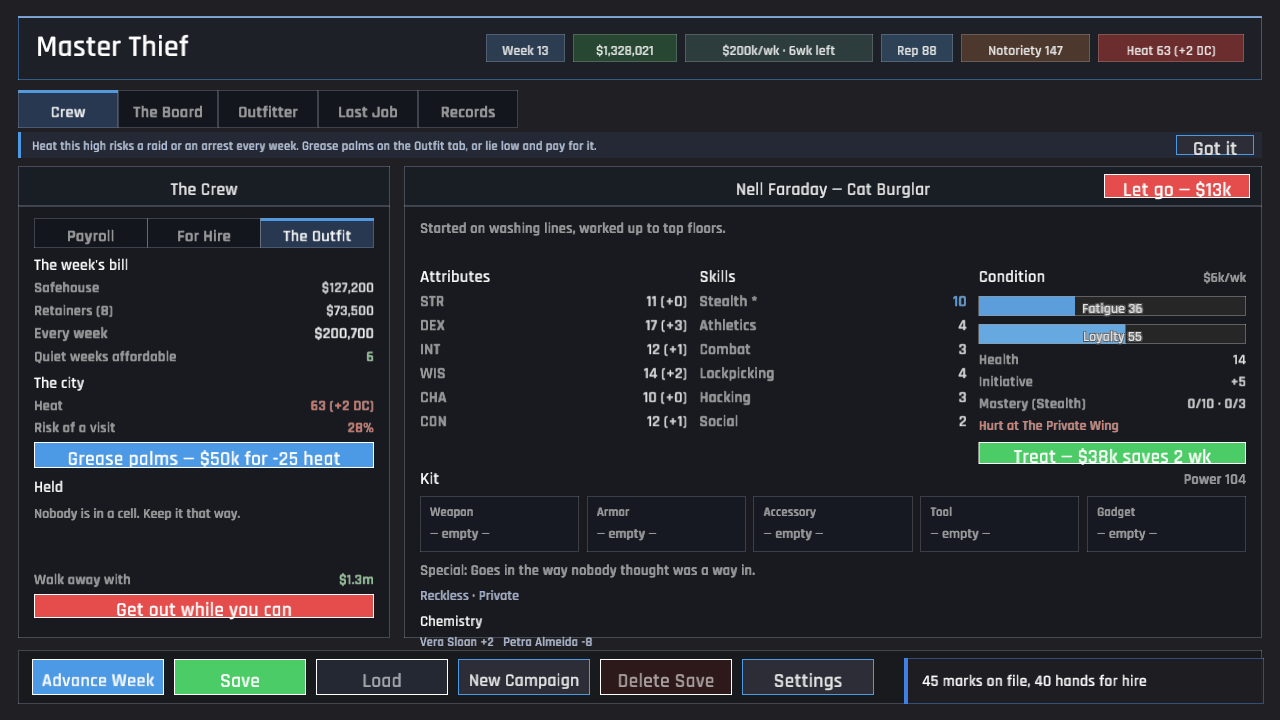
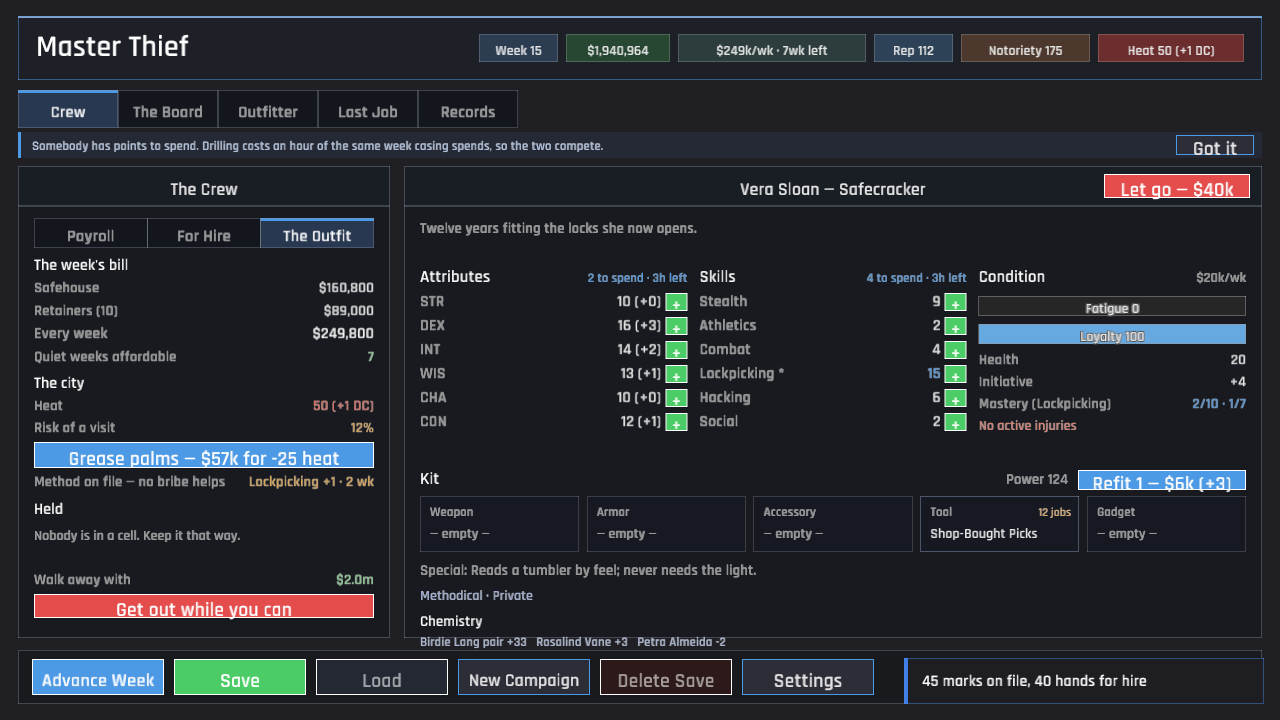
The outfit's books had half the city's file in them (the method goes on the ledger)
Continuing the sweep the last two commits started — the risk in this project has
moved from "not enough decisions" to "decisions the game does not tell you
about", and the Outfit tab is where a player goes to find out what the city has
on them. It listed heat, the odds of a knock, and the price of making both go
away. It said nothing at all about the trade file, which is the other half of
what the city knows and the one part no money touches.

It now carries a "Method on file — no bribe helps" line naming the watched
trade, what it costs, and how many quiet weeks take a point off it. Deliberately
placed directly under the Grease palms button: that button buys the heat number
down and does nothing to this one, and the two sitting together is the clearest
way to say so.

Three stale strings went with it, the same rot the hints had:

- "The crew has done all the looking it can this week" — they are hours now, and
  scouting is not the only thing that spends them.
- "Nobody on the payroll is fit to work" — fitness is injuries only since
  exhaustion stopped being a wall, so it now says too hurt.
- an ASCII hyphen where every other line in the game uses an em dash.

The outfit capture scene moves from twelve weeks to fourteen. At twelve the
method file is real but sits one point under the first band, so the row this
commit adds photographed as "nothing yet" — verified by measuring the campaign
rather than by nudging the scene, which would have made the screenshot a
[…]

diff --git a/src/ui/outfit.rs b/src/ui/outfit.rs
@@ -58,13 +58,13 @@ pub fn draw(ctx: &UiContext<'_>, content: Rect, actions: &mut Vec<UiAction>) {
     );
 
     let heat_y = content.y + 118.0;
-    draw_heat(Rect::new(content.x, heat_y, content.w, 96.0), ctx, actions);
+    draw_heat(Rect::new(content.x, heat_y, content.w, 118.0), ctx, actions);
     draw_custody(
         Rect::new(
             content.x,
-            heat_y + 104.0,
+            heat_y + 126.0,
             content.w,
-            content.bottom() - heat_y - 164.0,
+            content.bottom() - heat_y - 186.0,
         ),
         ctx,
         actions,
@@ -124,6 +124,33 @@ fn draw_heat(rect: Rect, ctx: &UiContext<'_>, actions: &mut Vec<UiAction>) {
     ) {
         actions.push(UiAction::GreasePalms);
     }
+
+    // Under the bribe button on purpose. The city keeps two files on an outfit —
+    // how much attention it has drawn, and what the attention is about — and
+    // this is the half no amount of money touches (GDD 5.4). A player looking
+    // at the outfit's books for what the city has on them should find both.
+    let scrutiny = &ctx.data.config.scrutiny;
+    let watched = session.scrutiny.watched(scrutiny);
+    let (label, value, tone) = match watched.first() {
+        Some((trade, penalty)) => (
+            "Method on file — no bribe helps",
+            format!(
+                "{} +{} · {} wk",
+                trade.label(),
+                penalty,
+                scrutiny.weeks_to_relief(session.scrutiny.get(*trade))
+            ),
+            CAUTION,
+        ),
+        None => ("Method on file", "nothing yet".to_owned(), CALM),
+    };
+    stat_row(
+        Rect::new(rect.x, rect.y + 98.0, rect.w, 20.0),
+        label,
+        &value,
+        15.0,
+        tone,
+    );
 }
 
 /// The last decision the campaign asks for. Shown with what walking away is

diff --git a/src/heist_actions/jobs.rs b/src/heist_actions/jobs.rs
@@ -43,7 +43,8 @@ pub(super) fn case_target(
         return;
     }
     if left == 0 {
-        notifications.warning("The crew has done all the looking it can this week");
+        notifications
+            .warning("The crew has no hours left this week — scouting and training share them");
         return;
     }
 
@@ -101,7 +102,7 @@ pub(super) fn open_plan(
         return;
     }
     if session.available_crew(&data.config.condition).count() == 0 {
-        notifications.warning("Nobody on the payroll is fit to work");
+        notifications.warning("Everybody on the payroll is too hurt to work");
         return;
     }
 
@@ -140,7 +141,7 @@ pub(super) fn auto_fill_plan(
     };
 
     selection.draft = Some(PlanDraft::from_auto(session, data, target));
-    notifications.info("The crew picked their own doors - argue with it");
+    notifications.info("The crew picked their own doors — argue with it");
 }
 
 /// Commit a hand-made plan. Same engine, same dice, better assignments than
@@ -233,7 +234,7 @@ pub(super) fn delegate_job(
         return None;
     }
     if session.available_crew(&data.config.condition).count() == 0 {
-        notifications.warning("Nobody on the payroll is fit to work");
+        notifications.warning("Everybody on the payroll is too hurt to work");
         return None;
     }
 

diff --git a/src/game.rs b/src/game.rs
@@ -130,9 +130,12 @@ impl Game {
                 Screen::Crew
             }
             "outfit" | "payroll" => {
-                // Twelve weeks in, the books have something to say: wages
-                // paid, heat carried, and whoever is threatening to walk.
-                crate::sim::play(&mut self.session, &self.data, 12);
+                // Fourteen weeks in, every line of the books has something on
+                // it: wages paid, heat carried, whoever is threatening to walk,
+                // and a trade the city has finally seen enough of. At twelve
+                // the method file is real but still a point under the first
+                // band, so the row it exists to show photographs as empty.
+                crate::sim::play(&mut self.session, &self.data, 14);
                 self.selection.crew_tab = ui::CrewTab::Outfit;
                 // Show a dossier with something on it: whoever is hurt, so the
                 // shot carries the treat quote rather than an idle column.

diff --git a/gdd.md b/gdd.md
@@ -320,7 +320,10 @@ using it — or picking marks whose doors need something else, which is the deci
 whole thing exists to create. Both halves are quoted before anything is committed: the
 board names the watched doors and says how many quiet weeks would take a point back off
 them, and the planning breakdown carries the penalty by name as `Watched: <Trade>`. The
-week summary says when a trade has come off the list. The numbers live in
+week summary says when a trade has come off the list, and the Outfit tab carries it in the
+outfit's own books — directly under the bribe button and labelled as the line no bribe
+helps, because that is where a player goes looking for what the city has on them and both
+halves of the city's file belong in the same place. The numbers live in
 `game_config.json` under `scrutiny`.
 
 ### 5.5 Crew Chemistry (replacing the stubbed relationship system)

diff --git a/README.md b/README.md
@@ -16,7 +16,8 @@ priced decision rather than a free one; unpaid crew lose loyalty, give a week's
 notice, and leave. Heat above a threshold rolls each week for the city's
 attention — a tail, a raid, or an arrest that puts somebody in a cell until bail
 is posted. The three answers are all purchases, and all of them are shown with
-their price on the Crew screen's **Outfit** tab.
+their price on the Crew screen's **Outfit** tab — which also carries the one
+line with no price on it, the city's file on how you work.
 
 **The week's hours are one pool with two claims on it.** Scouting a door costs
 cash *and* an hour of the crew's attention; so does drilling a hand on a point
